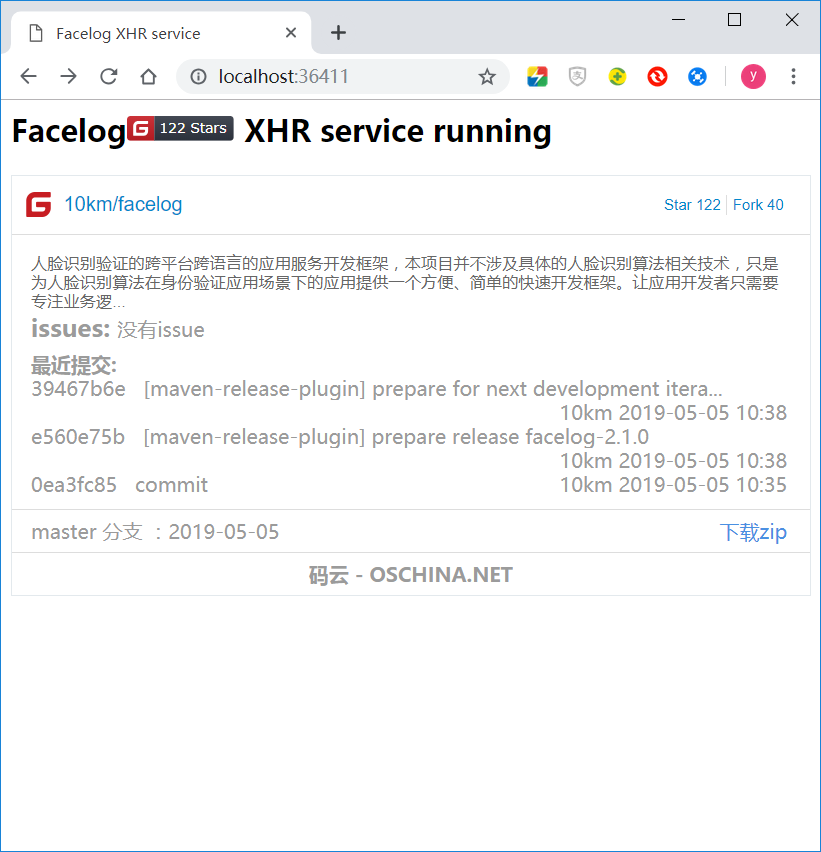
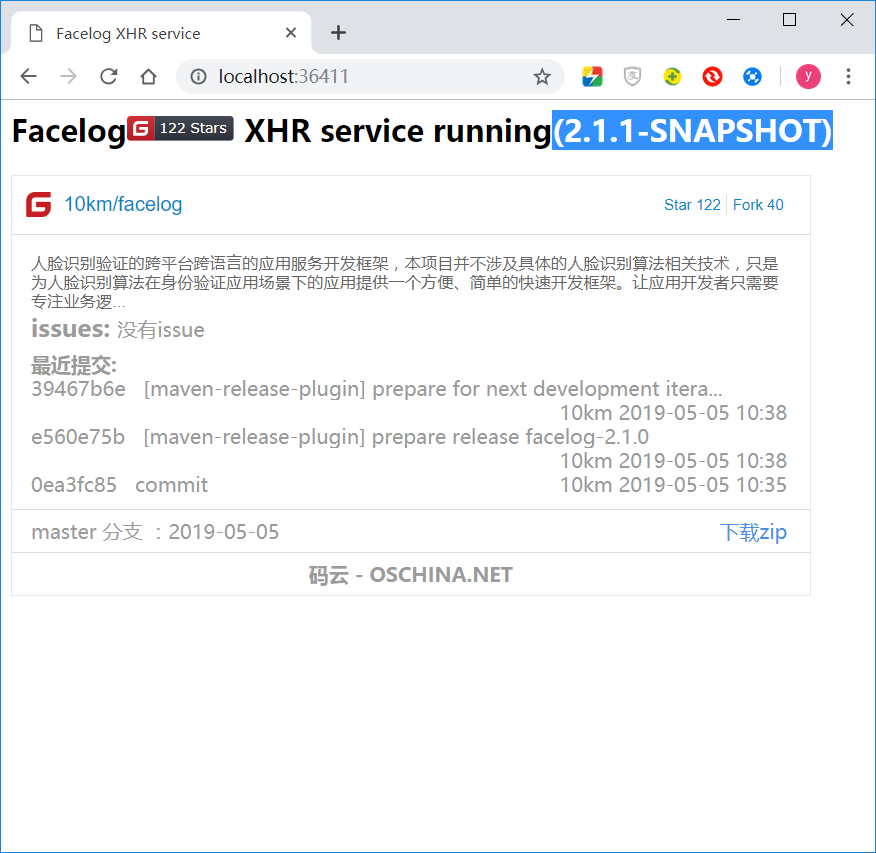
使用Resources.toString代替CharSteams.toString方法,确保资源文件读取后被关闭

diff --git a/facelog-service/src/main/resources/facelog_homepage.html b/facelog-service/src/main/resources/facelog_homepage.html
@@ -7,7 +7,7 @@
 .giteewidget{width:640}
 </style>
 <body>
-<h2 id="qunit-header">Facelog<a href='https://gitee.com/l0km/facelog/stargazers'><img src='https://gitee.com/l0km/facelog/badge/star.svg?theme=dark' alt='star'></img></a> XHR service running</h2>
+<h2 id="qunit-header">Facelog<a href='https://gitee.com/l0km/facelog/stargazers'><img src='https://gitee.com/l0km/facelog/badge/star.svg?theme=dark' alt='star'></img></a> XHR service running(${version})</h2>
 <div class="giteewidget"><script src='https://gitee.com/l0km/facelog/widget_preview'></script>
 <style>
 .pro_name a{color: #4183c4;}

diff --git a/facelog-service/src/main/java/net/gdface/service/facelog/FacelogXHRHomepageProvider.java b/facelog-service/src/main/java/net/gdface/service/facelog/FacelogXHRHomepageProvider.java
@@ -1,14 +1,20 @@
 package net.gdface.service.facelog;
 
+import java.nio.charset.Charset;
+
 import com.facebook.swift.service.ThriftXHRDecoder;
 import com.facebook.swift.service.XHRHomepageProvider;
-import com.google.common.io.ByteStreams;
+import com.google.common.io.Resources;
+
+import net.gdface.facelog.Version;
 
 public class FacelogXHRHomepageProvider implements XHRHomepageProvider {
 
 	@Override
 	public byte[] homepage() throws Exception {
-		return ByteStreams.toByteArray(ThriftXHRDecoder.class.getResourceAsStream("/facelog_homepage.html"));
+		String homepage = Resources.toString(ThriftXHRDecoder.class.getResource("/facelog_homepage.html"), 
+				Charset.forName("utf-8"));
+		return homepage.replaceAll("\\$\\{version\\}", Version.VERSION).getBytes();
 	}
 
 }
